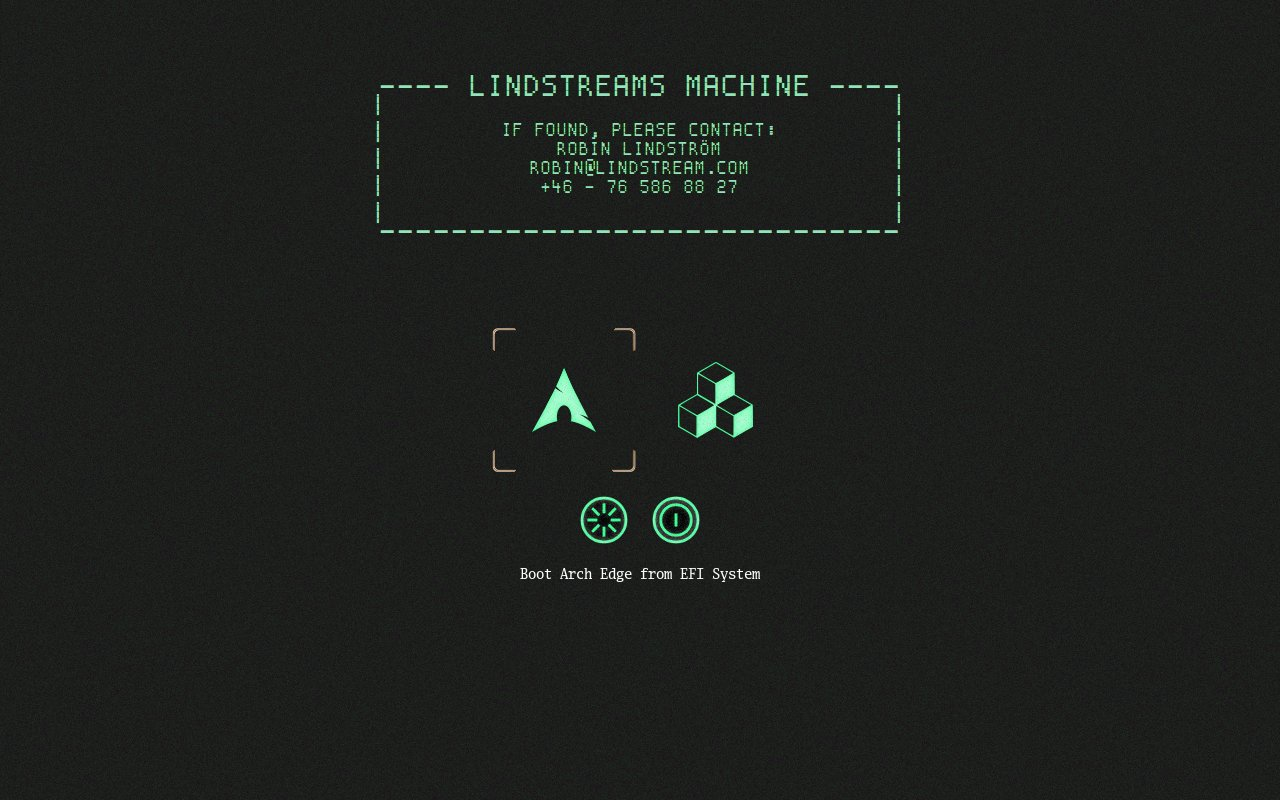
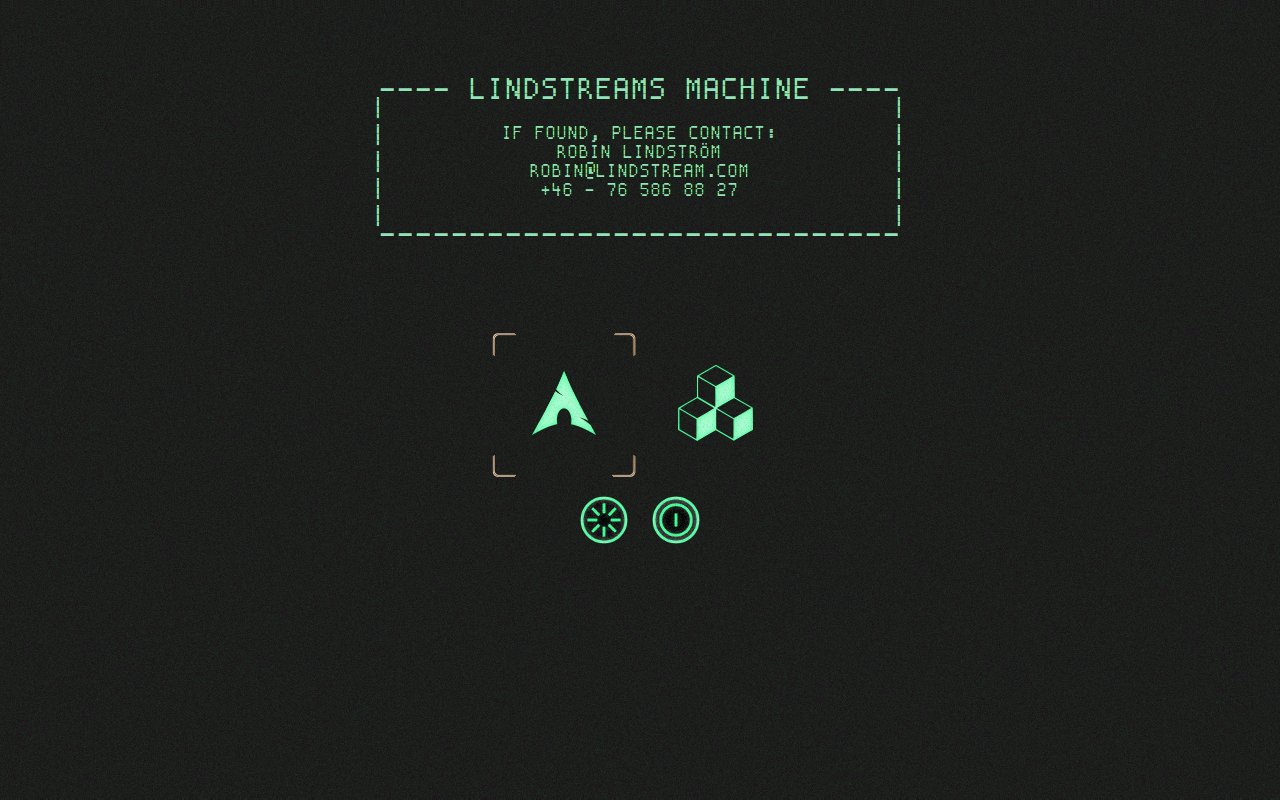
Removed label

diff --git a/README.md b/README.md
@@ -17,7 +17,7 @@ $root: vim /boot/EFI/refind.conf
 
 Change the following options:
 ```
-hideui singleuser,arrows,hints,badges
+hideui singleuser,arrows,hints,badges,label
 icons_dir dm-refind/icons
 banner dm-refind/background.png
 selection_big dm-refind/selection_big.png
